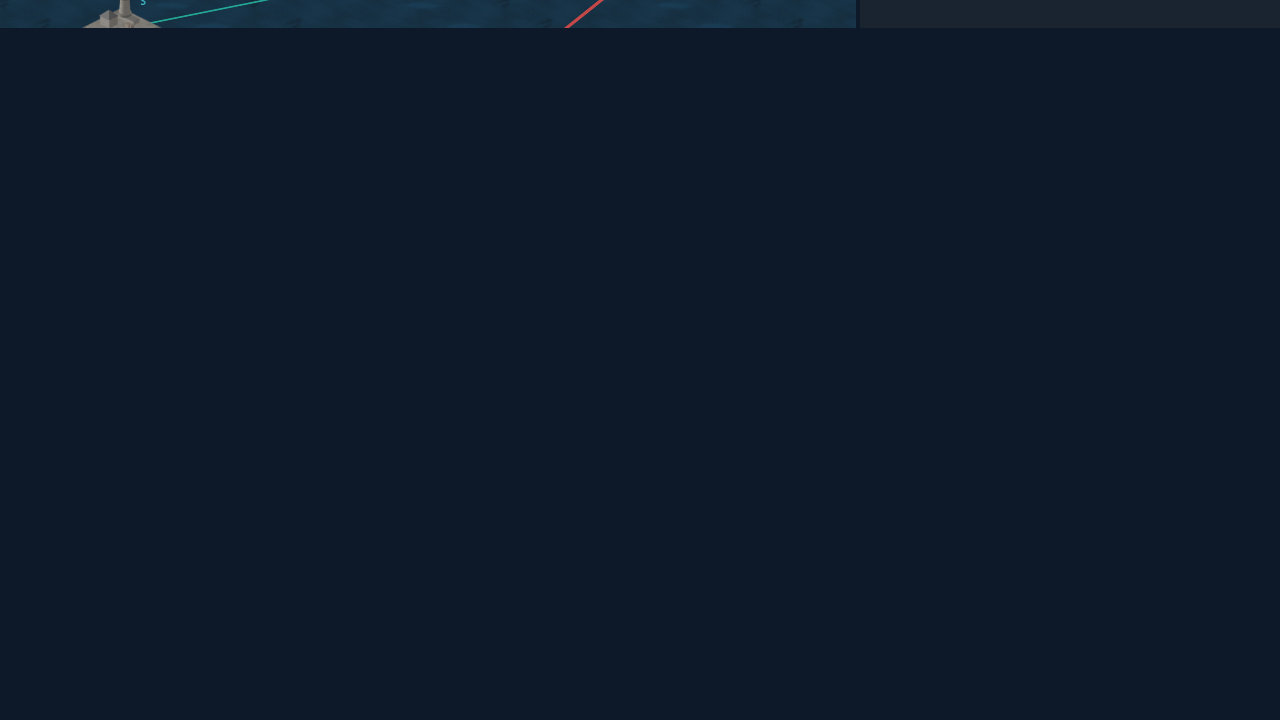
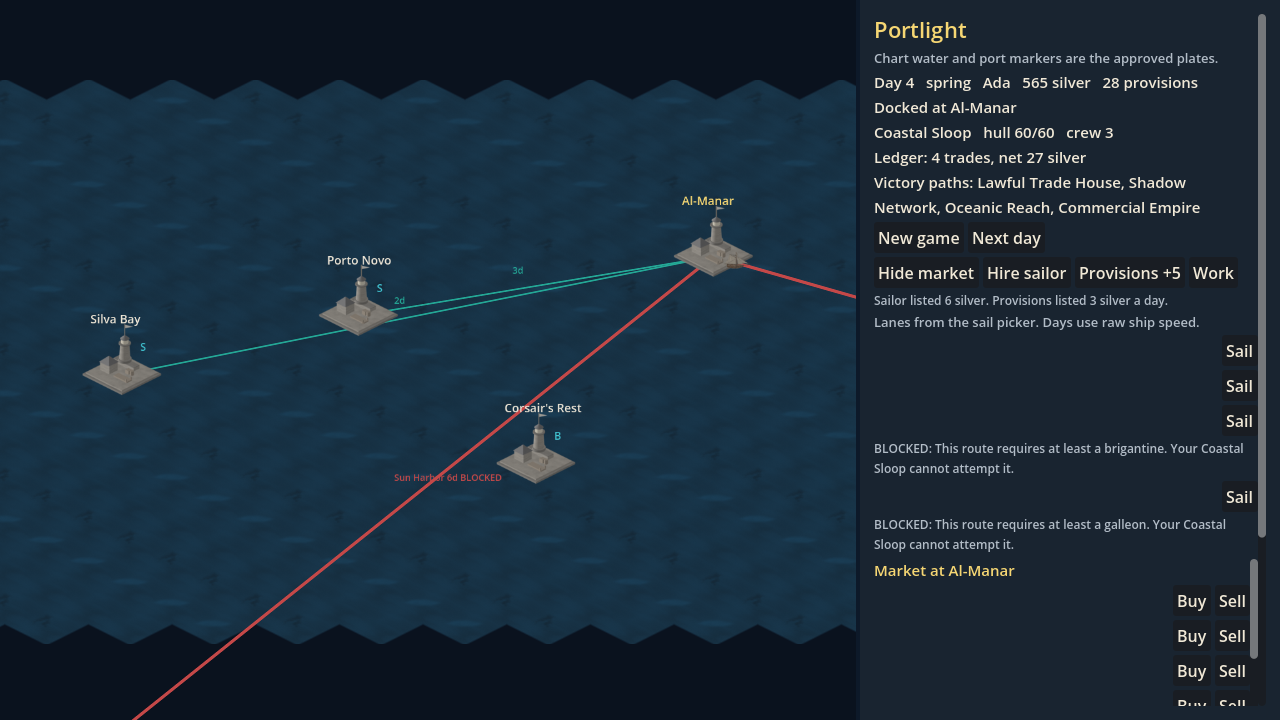
Fill the chart window and reject a flat capture.
set_anchors_preset kept the new row at the panel's 28 px margin, so the 1280x720 shot was a strip over the clear colour. The row now uses full-rect offsets, and the GL smoke fails when the frame is mostly one colour.

diff --git a/crates/portlight-godot/src/game.rs b/crates/portlight-godot/src/game.rs
@@ -31,7 +31,8 @@ use portlight_sim::{content, DuelOutcome, LaneSuitability, Session};
 
 use crate::chart_canvas::{connect_port_pressed, ChartCanvas};
 use crate::logic::{
-    chart_host_width, duel_button_enabled, layout_fits_window, PANEL_MIN_W, ROW_SEPARATION,
+    chart_host_width, duel_button_enabled, frame_mostly_flat, layout_fits_window, PANEL_MIN_W,
+    ROW_SEPARATION, WINDOW_H, WINDOW_W,
 };
 
 const CREAM: Color = Color::from_rgb(0.94, 0.91, 0.84);
@@ -193,7 +194,9 @@ impl IControl for PortlightGame {
             return;
         }
         if let Some(path) = self.shot_path.clone() {
-            self.save_shot(&path);
+            if !self.save_shot(&path) {
+                self.smoke_ok = false;
+            }
         }
         if !self.smoke {
             return;
@@ -214,19 +217,25 @@ impl PortlightGame {
             layout_fits_window(),
             "panel and chart must fit the 1280x720 window"
         );
-        self.base_mut().set_anchors_preset(LayoutPreset::FULL_RECT);
+        // `set_anchors_preset` keeps the control's current size (it rewrites
+        // offsets). On a new node that size is the minimum, which here was the
+        // panel's 14+14 content margin: a 28 px strip across 1280, clear
+        // colour underneath. Offsets have to be the full-rect preset too.
+        self.base_mut()
+            .set_anchors_and_offsets_preset(LayoutPreset::FULL_RECT);
 
         let mut row = HBoxContainer::new_alloc();
-        row.set_anchors_preset(LayoutPreset::FULL_RECT);
         row.set_h_size_flags(SizeFlags::EXPAND_FILL);
         row.set_v_size_flags(SizeFlags::EXPAND_FILL);
         row.add_theme_constant_override("separation", ROW_SEPARATION);
+        row.set_custom_minimum_size(Vector2::new(WINDOW_W, WINDOW_H));
         self.base_mut().add_child(&row);
+        row.set_anchors_and_offsets_preset(LayoutPreset::FULL_RECT);
 
         let mut view_host = SubViewportContainer::new_alloc();
         // The viewport stays CHART_VIEW_* and stretches into the space left
         // beside the panel, so 1280 does not clip the Sail column.
-        view_host.set_custom_minimum_size(Vector2::new(chart_host_width(), 0.0));
+        view_host.set_custom_minimum_size(Vector2::new(chart_host_width(), WINDOW_H));
         view_host.set_h_size_flags(SizeFlags::EXPAND_FILL);
         view_host.set_v_size_flags(SizeFlags::EXPAND_FILL);
         view_host.set_stretch(true);
@@ -247,7 +256,7 @@ impl PortlightGame {
         self.canvas = Some(canvas);
 
         let mut panel = PanelContainer::new_alloc();
-        panel.set_custom_minimum_size(Vector2::new(PANEL_MIN_W, 0.0));
+        panel.set_custom_minimum_size(Vector2::new(PANEL_MIN_W, WINDOW_H));
         panel.set_h_size_flags(SizeFlags::SHRINK_END);
         panel.set_v_size_flags(SizeFlags::EXPAND_FILL);
         let mut style = StyleBoxFlat::new_gd();
@@ -472,7 +481,7 @@ impl PortlightGame {
     fn run_encounter(&mut self) {
         if let Some(name) = self.sail_until_duel() {
             self.push_log(format!(
-                "Duel with {name}. Advance stays refused. Pick at least 3 stances, or auto-resolve."
+                "Duel with {name}. Next day calls Session::advance; the sim refuses while this duel is pending. Pick at least 3 stances, or auto-resolve."
             ));
         }
         self.refresh();
@@ -1183,28 +1192,44 @@ impl PortlightGame {
         }
     }
 
-    fn save_shot(&self, path: &str) {
-        let Some(viewport) = self.base().get_viewport() else {
-            godot_print!("no viewport");
-            return;
-        };
-        let Some(texture) = viewport.get_texture() else {
-            godot_print!("no viewport texture");
-            return;
-        };
-        let Some(image) = texture.get_image() else {
+    /// Saves the window. Returns false when the frame is missing or mostly one
+    /// colour, which is what the collapsed 28 px chart shot looked like.
+    /// Headless Godot's dummy renderer leaves the image empty; that path does
+    /// not fail the session smoke. A GL capture sets `PORTLIGHT_REQUIRE_FRAME`.
+    fn save_shot(&self, path: &str) -> bool {
+        let image = self.base().get_viewport().and_then(|viewport| {
+            viewport
+                .get_texture()
+                .and_then(|texture| texture.get_image())
+        });
+        let Some(image) = image else {
             godot_print!("viewport image was empty");
-            return;
+            return !flag_set("PORTLIGHT_REQUIRE_FRAME");
         };
-        let err = image.save_png(path);
-        godot_print!(
-            "screenshot {path} {}x{} error={err:?}",
-            image.get_width(),
-            image.get_height()
-        );
-        if err != Error::OK && self.smoke {
-            godot_print!("screenshot save failed");
+        if image.is_empty() {
+            godot_print!("viewport image was empty");
+            return !flag_set("PORTLIGHT_REQUIRE_FRAME");
         }
+        let width = image.get_width();
+        let height = image.get_height();
+        let err = image.save_png(path);
+        let samples = frame_samples(&image);
+        let flat = frame_mostly_flat(&samples);
+        godot_print!(
+            "screenshot {path} {width}x{height} samples={} flat={flat} error={err:?}",
+            samples.len()
+        );
+        if err != Error::OK {
+            godot_print!("screenshot save failed");
+            return false;
+        }
+        if width != WINDOW_W as i32 || height != WINDOW_H as i32 || flat {
+            godot_print!(
+                "screenshot rejected: expected a full 1280x720 frame that is not one flat colour"
+            );
+            return false;
+        }
+        true
     }
 }
 
@@ -1364,6 +1389,28 @@ fn clear_children(node: &mut Gd<VBoxContainer>) {
         node.remove_child(&child);
         child.queue_free();
     }
+}
+
+fn frame_samples(image: &Gd<godot::classes::Image>) -> Vec<[u8; 3]> {
+    let width = image.get_width();
+    let height = image.get_height();
+    let mut samples = Vec::new();
+    let step = 8;
+    let mut y = 0;
+    while y < height {
+        let mut x = 0;
+        while x < width {
+            let color = image.get_pixel(x, y);
+            samples.push([
+                (color.r.clamp(0.0, 1.0) * 255.0).round() as u8,
+                (color.g.clamp(0.0, 1.0) * 255.0).round() as u8,
+                (color.b.clamp(0.0, 1.0) * 255.0).round() as u8,
+            ]);
+            x += step;
+        }
+        y += step;
+    }
+    samples
 }
 
 fn flag_set(name: &str) -> bool {

diff --git a/crates/portlight-godot/src/logic.rs b/crates/portlight-godot/src/logic.rs
@@ -28,6 +28,28 @@ pub(crate) fn duel_button_enabled(pending: bool) -> bool {
     pending
 }
 
+/// A captured window is useless when one colour covers almost every sample.
+/// The broken 1280×720 chart shot was the clear colour below a 28 px strip.
+pub(crate) fn frame_mostly_flat(samples: &[[u8; 3]]) -> bool {
+    dominant_color_fraction(samples) >= 0.80
+}
+
+fn dominant_color_fraction(samples: &[[u8; 3]]) -> f32 {
+    if samples.is_empty() {
+        return 1.0;
+    }
+    let mut counts = std::collections::HashMap::<[u8; 3], usize>::new();
+    let mut best = 0usize;
+    for sample in samples {
+        let count = counts.entry(*sample).or_insert(0);
+        *count += 1;
+        if *count > best {
+            best = *count;
+        }
+    }
+    best as f32 / samples.len() as f32
+}
+
 #[cfg(test)]
 mod tests {
     use portlight_chart::{chart_to_screen_f, chart_to_uv, facing_from_uv, Facing};
@@ -74,5 +96,19 @@ mod tests {
         assert!(project.contains("window/size/viewport_width=1280"));
         assert!(project.contains("window/size/viewport_height=720"));
         assert!(layout_fits_window());
+    }
+
+    #[test]
+    fn a_flat_capture_fails_and_a_chart_frame_does_not() {
+        let clear = [13, 25, 41];
+        assert!(frame_mostly_flat(&[clear; 100]));
+        // The committed chart-1280.png was clear colour under a thin strip.
+        let mut strip = vec![clear; 96];
+        strip.extend([[70, 120, 150]; 4]);
+        assert!(frame_mostly_flat(&strip));
+        let mut chart = vec![clear; 40];
+        chart.extend([[32, 78, 112]; 30]);
+        chart.extend([[232, 196, 120]; 30]);
+        assert!(!frame_mostly_flat(&chart));
     }
 }

diff --git a/docs/PORTING-PLAN.md b/docs/PORTING-PLAN.md
@@ -287,4 +287,4 @@ No harbour scene in the playable, and no terrain, weather overlay, or NPC ships.
 
 `portlight-chart` unit tests cover the projection, the eight facings, the water datum, and the seed-1 trade loop against `Session`. `cargo test --workspace` still runs the stage 1 goldens.
 
-The sim stays on the Rust 1.83.0 pin. `godot` 0.5.5 does not build there, so the sim CI job passes `--exclude portlight-godot`. A separate job uses stable Rust, builds the extension, and runs Godot 4.7.2 with `godot --headless --path godot --import --quit` and `godot --headless --path godot -- --smoke`. The headless dummy renderer loads the extension and runs that session, and it cannot read a viewport image back, so CI does not require a PNG. A frame needs a real GL context (`xvfb-run` with `--rendering-driver opengl3` on this machine). That capture is the PR screenshot, not a CI artifact.
+The sim stays on the Rust 1.83.0 pin. `godot` 0.5.5 does not build there, so the sim CI job passes `--exclude portlight-godot`. A separate job uses stable Rust, builds the extension, and runs Godot 4.7.2 with `godot --headless --path godot --import --quit` and `godot --headless --path godot -- --smoke`. The headless dummy renderer loads the extension and runs that session, and it cannot read a viewport image back. The same job then captures under `xvfb-run` with `--rendering-driver opengl3`. That smoke fails if the frame is missing or mostly one flat colour. `set_anchors_preset` alone keeps a new control at its minimum size, which collapsed the chart row to the panel's 28 px content margin; the row uses `set_anchors_and_offsets_preset` so it fills 1280×720.

diff --git a/README.md b/README.md
@@ -54,11 +54,12 @@ godot --headless --path godot --import --quit
 godot --headless --path godot -- --smoke
 ```
 
-A PNG needs a GL context. On Linux, llvmpipe under Xvfb works:
+A PNG needs a GL context. On Linux, llvmpipe under Xvfb works. That smoke exits non-zero if the 1280×720 frame is missing or mostly one flat colour (the collapsed chart was a 28 px strip over the clear colour):
 
 ```
 xvfb-run -a -s "-screen 0 1280x720x24" \
-  env PORTLIGHT_SMOKE=1 PORTLIGHT_SHOT=/tmp/portlight-first-playable.png \
+  env PORTLIGHT_SMOKE=1 PORTLIGHT_REQUIRE_FRAME=1 \
+  PORTLIGHT_SHOT=/tmp/portlight-first-playable.png \
   godot --display-driver x11 --rendering-driver opengl3 --path godot -- --smoke
 ```
 
